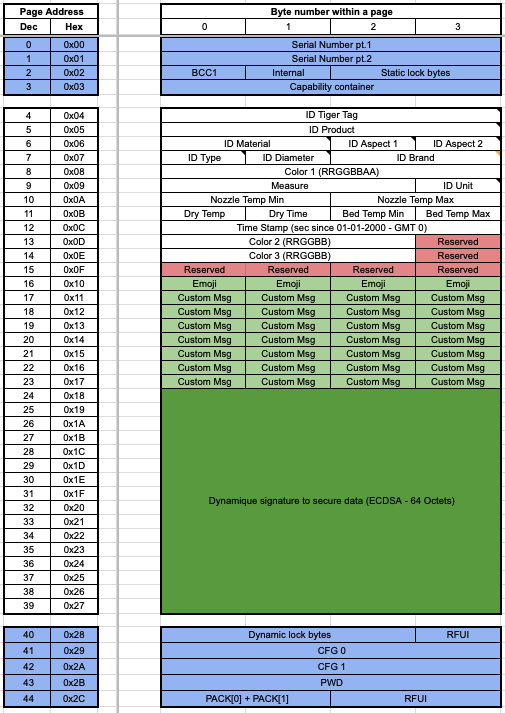
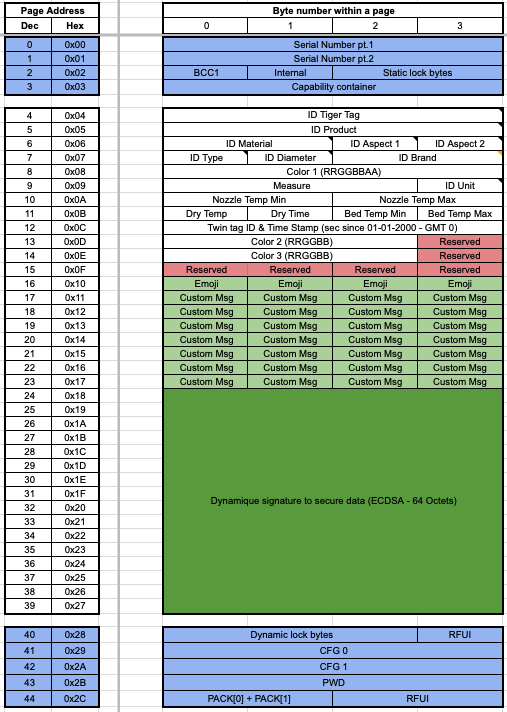
Update

Changed region(s): [[0.0, 0.0, 1.0, 1.0], [0.4158, 0.6798, 0.8911, 0.7107], [0.9802, 0.8343, 1.0, 0.8652]]

diff --git a/README.md b/README.md
@@ -190,6 +190,24 @@ All multi-byte values are encoded in **big-endian** format.
 - etc.
 
 
+## 2.9 Timestamp & Unique Pairing Identifier
+
+The `Time Stamp` field in the TigerTag format serves a **dual purpose** that adds both traceability and pairing functionality:
+
+### 1. Manufacturing Timestamp
+This 4-byte field stores the number of seconds elapsed since 01/01/2000 GMT, providing a reliable, encoded date of fabrication for the spool. This information can be decoded by any compliant reader or software to determine when the filament was produced or packaged.
+
+### 2. Twin Tag Linking (Left & Right Tags)
+In addition to tracking production time, the `Time Stamp` acts as a **spool pairing identifier**. When two TigerTag RFID chips are written simultaneously for the left and right sides of the same spool, they receive the exact same timestamp value.
+
+This shared value enables:
+- Identifying both tags as part of the same spool.
+- Supporting redundancy: if one tag fails or is unreadable, the twin can still provide valid metadata.
+- Visual matching in user interfaces or spool management systems (e.g. “Left/Right tag matched” indicators).
+
+🧠 Think of the `Time Stamp` as a **"twin tag ID"** in addition to being a clock — a clever way to bind two tags using time as the key.
+
+
 
 ---
 
@@ -265,7 +283,7 @@ Without signature verification, anyone could clone a tag. This process protects 
 | Dry Time         | 0x05          | 5              | Time in hours                             |
 | Bed Temp Min     | 0x32          | 50             | °C bed minimum                            |
 | Bed Temp Max     | 0x3C          | 60             | °C bed maximum                            |
-| Timestamp        | 0x66061A5C    | 1711492444     | Encoded as seconds since 01/01/2000       |
+| Timestamp        | 0x66061A5C    | 1711492444     | Encoded as seconds since 01/01/2000 & twin tag ID     |
 | Emoji            | 0xF09F9880    | 😀             | custom user UTF-8 encoded emoji (4 bytes) |
 | Message          | Starter Red   | Starter Red    | custom user message                       |
 
